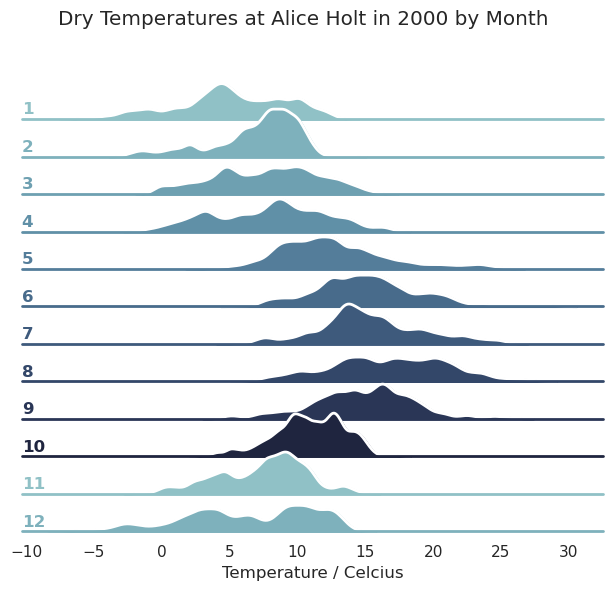
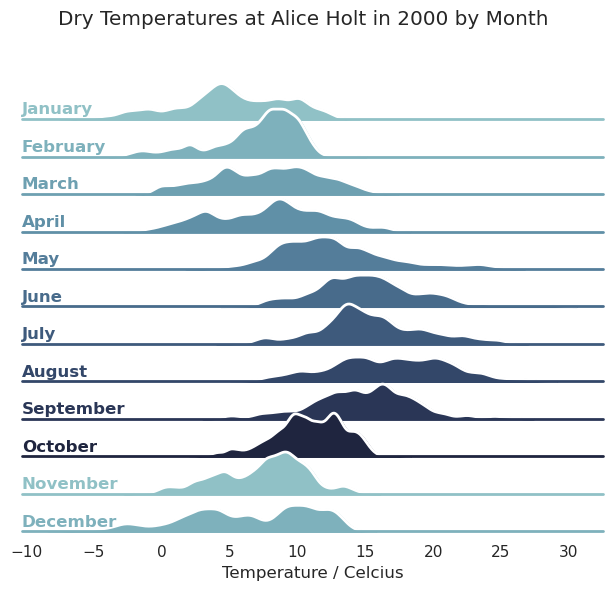
Changed ridge plot month to text

diff --git a/visualise_data.py b/visualise_data.py
@@ -126,75 +126,26 @@ def ridge(d: DataFrame):
             (pl.col('YEAR') == 2000)
     ).select(['MONTH', 'DRYTMP'])
 
-    x = ts_ridge.select(pl.col('DRYTMP')).to_series().to_list()
-    g = ts_ridge.select(pl.col('MONTH')).to_series().to_list()
-    df = pd.DataFrame(dict(x=x, g=g))
-    
-    # Initialize the FacetGrid object
-    pal = sns.cubehelix_palette(10, rot=-.25, light=.7)
-    g = sns.FacetGrid(df, row="g", hue="g", aspect=15, height=.5, palette=pal)
-
-    # Draw the densities in a few steps
-    g.map(sns.kdeplot, "x",
-        bw_adjust=.5, clip_on=False,
-        fill=True, alpha=1, linewidth=1.5)
-    g.map(sns.kdeplot, "x", clip_on=False, color="w", lw=2, bw_adjust=.5)
-
-    # passing color=None to refline() uses the hue mapping
-    g.refline(y=0, linewidth=2, linestyle="-", color=None, clip_on=False)
-
-    # Define and use a simple function to label the plot in axes coordinates
-    def label(x, color, label):
-        ax = plt.gca()
-        ax.text(0, .2, label, fontweight="bold", color=color,
-                ha="left", va="center", transform=ax.transAxes)
-
-    g.map(label, "x")
-
-    # Set the subplots to overlap
-    g.figure.subplots_adjust(hspace=-.25)
-
-    # Remove axes details that don't play well with overlap
-    g.set_titles("")
-    g.set(yticks=[], ylabel="")
-    g.despine(bottom=True, left=True)
-    g.fig.suptitle('Dry Temperatures at Alice Holt in 2000 by Month')
-    g.set_axis_labels('Temperature / Celcius')
-
-
-
-def ridge_named(d: DataFrame):
-
-    sns.set_theme(style="white", rc={"axes.facecolor": (0, 0, 0, 0)})
-
-    # Create the data
-    ts_ridge = d.with_columns(
-        pl.col('TIMESTAMP').dt.year().alias('YEAR'),
-        pl.col('TIMESTAMP').dt.month().alias('MONTH')
-    ).filter(
-            (pl.col('SITECODE') == 'T09') &
-            (pl.col('YEAR') == 2000)
-    ).select(['MONTH', 'DRYTMP'])
-
-    months = {1: 'January',
-              2: 'February',
-              3: 'March',
-              4: 'April',
-              5: 'May',
-              6: 'June',
-              7: 'July',
-              8: 'August',
-              9: 'September',
-              10: 'October',
-              11: 'November',
-              12: 'December'}
-
-              
+    ts_ridge.with_columns(pl.when(pl.col('MONTH') == 1).then(pl.lit('January')).alias('TEXTMONTH'))
+    ts_ridge = ts_ridge.with_columns(
+        pl.when(pl.col('MONTH') == 1).then(pl.lit('January'))
+            .when(pl.col('MONTH') == 2).then(pl.lit('February'))
+            .when(pl.col('MONTH') == 3).then(pl.lit('March'))
+            .when(pl.col('MONTH') == 4).then(pl.lit('April'))
+            .when(pl.col('MONTH') == 5).then(pl.lit('May'))
+            .when(pl.col('MONTH') == 6).then(pl.lit('June'))
+            .when(pl.col('MONTH') == 7).then(pl.lit('July'))
+            .when(pl.col('MONTH') == 8).then(pl.lit('August'))
+            .when(pl.col('MONTH') == 9).then(pl.lit('September'))
+            .when(pl.col('MONTH') == 10).then(pl.lit('October'))
+            .when(pl.col('MONTH') == 11).then(pl.lit('November'))
+            .when(pl.col('MONTH') == 12).then(pl.lit('December')).alias('CHARMONTH')
+    )
 
     x = ts_ridge.select(pl.col('DRYTMP')).to_series().to_list()
-    g = ts_ridge.select(pl.col('MONTH')).to_series().to_list()
+    g = ts_ridge.select(pl.col('CHARMONTH')).to_series().to_list()
     df = pd.DataFrame(dict(x=x, g=g))
-    
+
     # Initialize the FacetGrid object
     pal = sns.cubehelix_palette(10, rot=-.25, light=.7)
     g = sns.FacetGrid(df, row="g", hue="g", aspect=15, height=.5, palette=pal)
